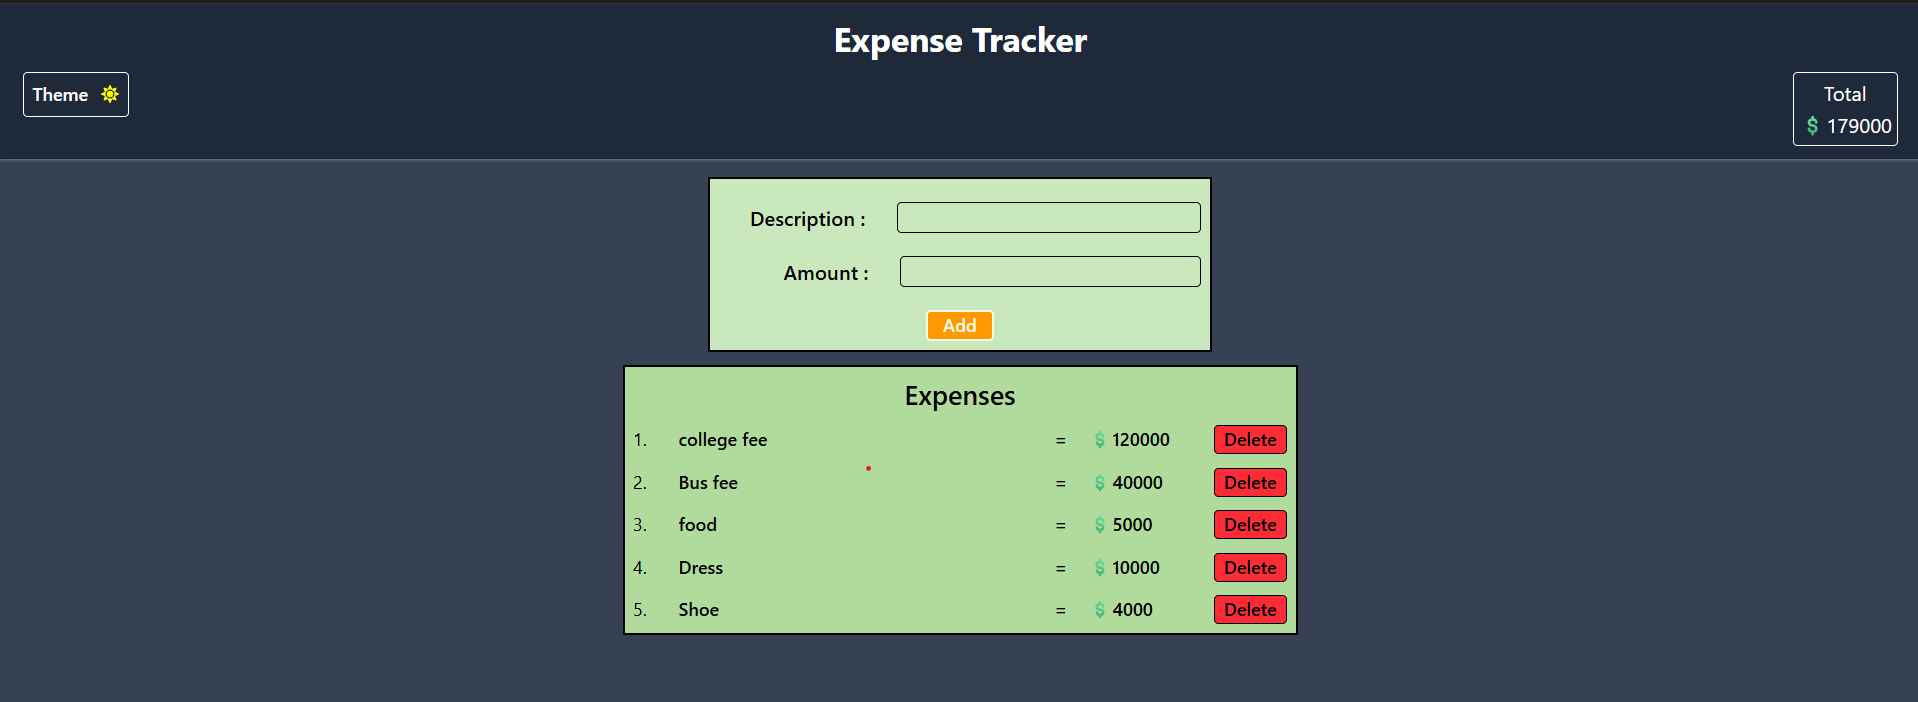
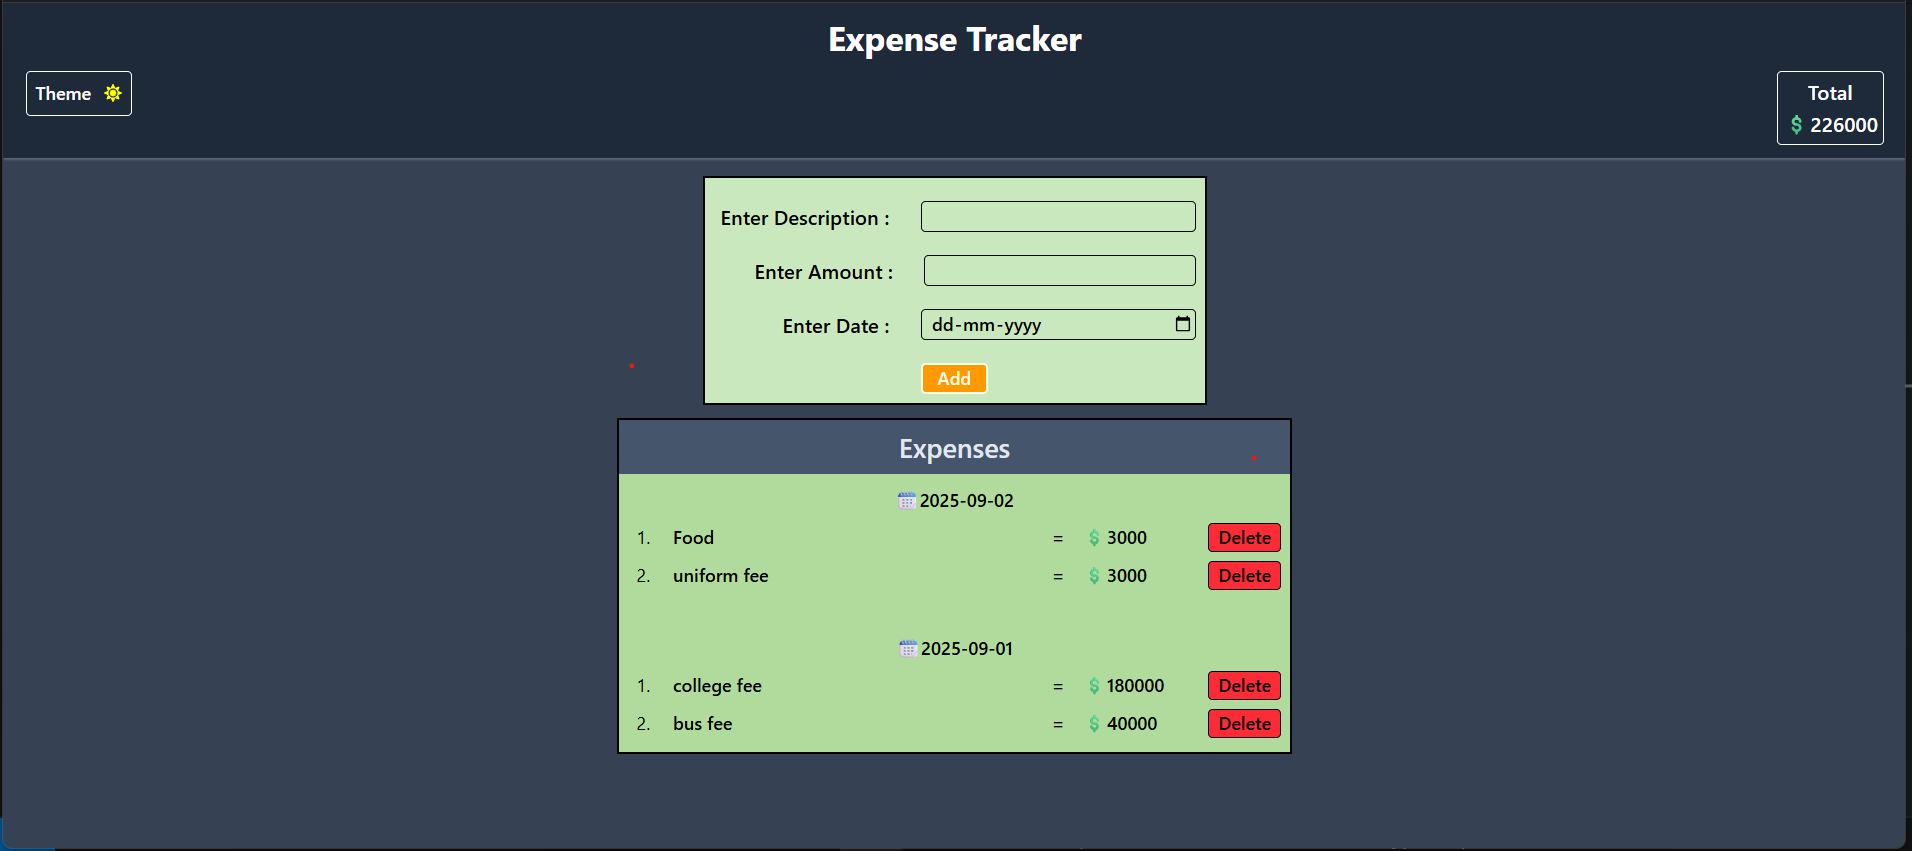
Added new date feature and sorted the expense list based on date

diff --git a/src/components/UserInput.tsx b/src/components/UserInput.tsx
@@ -7,22 +7,24 @@ export type ExpenseType = {
   id: number;
   description: string;
   amount: number;
+  date: string;
 };
 
 const UserInput = () => {
-  console.log("userInput renders");
   const [description, setDescription] = useState("");
   const [amount, setAmount] = useState("");
   const [expense, setExpense] = useState<ExpenseType[]>([]);
   const [balance, setBalance] = useState(0);
   const [isDark, setIsDark] = useState(true);
+  const [date, setDate] = useState("");
 
   useEffect(() => {
     const savedExpense = localStorage.getItem("expense");
     const savedBalance = localStorage.getItem("balance");
-
+    const savedTheme = localStorage.getItem("savedTheme");
     if (savedExpense) setExpense(JSON.parse(savedExpense));
     if (savedBalance) setBalance(JSON.parse(savedBalance));
+    if (savedTheme) setIsDark(JSON.parse(savedTheme));
   }, []);
 
   // Apply/remove the "dark" class on <html> whenever isDark changes
@@ -41,12 +43,19 @@ const UserInput = () => {
       id: Date.now(),
       description: description,
       amount: parseFloat(amount),
+      date,
     };
     const updatedExpense = [...expense, newExpense];
     setDescription("");
     setAmount("");
-    // setExpense(updatedExpense)
+    setDate("");
     updateExpenseData(updatedExpense);
+  };
+
+  const themeToggle = () => {
+    const newTheme = !isDark;
+    setIsDark(newTheme);
+    localStorage.setItem("savedTheme", JSON.stringify(newTheme));
   };
 
   const deleteExpense = useCallback(
@@ -76,13 +85,14 @@ const UserInput = () => {
        dark:bg-gray-800 dark:text-white p-3 w-full shadow shadow-gray-500 "
       >
         <div className=" text-center  w-full">
-          <h1 className="text-xl sm:text-3xl font-bold">Expense Tracker</h1>
+          <h1 className="text-xl sm:text-3xl font-bold ">Expense Tracker</h1>
         </div>
 
         <div className="flex w-full  justify-between mt-3 px-2  text-center">
           <button
-            onClick={() => setIsDark(!isDark)}
-            className="flex gap-3 items-center border rounded px-2 h-10 font-semibold"
+            onClick={themeToggle}
+            className="flex gap-3 items-center border rounded px-2 h-10 font-semibold
+            hover:outline-2"
           >
             Theme {isDark ? <FaSun color="yellow" /> : <FaMoon color="gray" />}
           </button>
@@ -96,33 +106,45 @@ const UserInput = () => {
          font-semibold sm:gap-2 border-2 p-2 min-w-0 bg-[#CAE8BD]"
         >
           <div className=" flex gap-2 flex-col sm:flex-row justify-between my-3">
-            <label className="text-xs sm:text-lg flex-1 sm:text-right sm:pr-5">
-              Description :{" "}
+            <label className="text-xs  sm:text-lg flex-2 sm:text-right sm:pr-5">
+              Enter Description :
             </label>
             <input
               type="text"
               value={description}
               onChange={(e) => setDescription(e.target.value)}
               required
-              className="border rounded flex-2 pl-2"
+              className="border rounded flex-3 pl-2"
             ></input>
           </div>
           <div className="flex flex-col gap-2 sm:flex-row  justify-between min-w-0 mb-3">
-            <label className="flex-1 sm:text-right sm:pr-5 text-xs sm:text-lg">
-              Amount :
+            <label className="flex-2 sm:text-right sm:pr-5 text-xs sm:text-lg">
+              Enter Amount :
             </label>
             <input
               type="number"
               value={amount}
               onChange={(e) => setAmount(e.target.value)}
               required
-              className="border rounded flex-2"
+              className="border rounded flex-3"
             ></input>
+          </div>
+          <div className="flex flex-col gap-2 sm:flex-row  justify-between min-w-0 mb-3">
+            <label className="flex-2 sm:text-right sm:pr-5 text-xs sm:text-lg">
+              Enter Date :
+            </label>
+            <input
+              type="date"
+              value={date}
+              onChange={(e) => setDate(e.target.value)}
+              required
+              className="border rounded flex-3 pl-2"
+            />
           </div>
           <button
             type="submit"
             className="border-2  rounded  bg-amber-500 text-amber-50
-             hover:bg-amber-500/80 w-15 mx-auto"
+             hover:outline-2 w-15 mx-auto"
           >
             Add
           </button>

diff --git a/src/components/ExpenseList.tsx b/src/components/ExpenseList.tsx
@@ -6,30 +6,66 @@ type ExpenseListProps = {
   deleteExpense: (id: number) => void;
 };
 
+type groupedExpenseType = Record<string, ExpenseType[]>;
+
 const ExpenseList = ({ expense, deleteExpense }: ExpenseListProps) => {
-  console.log("expense list renders");
+  const groupedExpense: groupedExpenseType = expense.reduce((acc, cur) => {
+    if (!acc[cur.date]) acc[cur.date] = [];
+    acc[cur.date].push(cur);
+    return acc;
+  }, {} as groupedExpenseType);
+
+  const sortedDates = Object.keys(groupedExpense).sort(
+    (a, b) => new Date(b).getTime() - new Date(a).getTime()
+  );
+
   return (
     <div className="border-2 mt-3 sm:w-150 mx-3 sm:mx-auto bg-[#B0DB9C]">
-      <h2 className="sm:text-2xl font-semibold mt-2 mb-3 text-center">
+      <h2
+        className="sm:text-2xl font-semibold  mb-3 
+      text-center text-black p-2 dark:bg-slate-600 dark:text-slate-200"
+      >
         Expenses
       </h2>
-      <ol className="list-decimal pl-6 space-y-3">
-        {expense.map((expense: ExpenseType) => (
-          <li className="list  pl-6 " key={expense.id}>
-            <div className="flex items-center justify-between gap-4 mb-2 font-semibold">
-              <span className="flex-1 break-all">{expense.description}</span>
-              <span className="w-4 text-center">=</span>
-              <span className=" w-24 text-left">💲{expense.amount}</span>
-              <button
-                onClick={() => deleteExpense(expense.id)}
-                className="border rounded mr-2 px-2 bg-red-500 hover:bg-red-500/80"
-              >
-                Delete
-              </button>
+      {expense.length === 0 ? (
+        <div className="text-center my-2 text-lg font-semibold text-red-400">
+          No Expense Yet!{" "}
+        </div>
+      ) : (
+        <div className=" space-y-10 my-3 ">
+          {sortedDates.map((date) => (
+            <div key={date}>
+              <h3 className="font-semibold text-center mb-2">🗓{date}</h3>
+              <ol className="list-decimal pl-8 space-y-2">
+                {groupedExpense[date].map((exp) => (
+                  <li key={exp.id}>
+                    <div className="flex items-center justify-between gap-4 font-semibold">
+                      <span className="flex-1 break-all ml-4">
+                        {exp.description}
+                      </span>
+                      <span>=</span>
+                      <span className=" w-24 text-left">💲{exp.amount}</span>
+                      <button
+                        onClick={() => {
+                          if (
+                            confirm(
+                              "Are you sure you want to delete this expense?"
+                            )
+                          )
+                            deleteExpense(exp.id);
+                        }}
+                        className="border rounded mr-2 px-2 bg-red-500 hover:outline-2"
+                      >
+                        Delete
+                      </button>
+                    </div>
+                  </li>
+                ))}
+              </ol>
             </div>
-          </li>
-        ))}
-      </ol>
+          ))}
+        </div>
+      )}
     </div>
   );
 };

diff --git a/src/components/BalanceBox.tsx b/src/components/BalanceBox.tsx
@@ -6,7 +6,10 @@ type BalanceBoxProps = {
 
 const BalanceBox = ({ balance }: BalanceBoxProps) => {
   return (
-    <div className="text-xs sm:text-lg text-center ml-autofont-semibold border p-1 rounded ">
+    <div
+      className="text-xs sm:text-lg text-center ml-auto font-semibold 
+    border p-1 rounded hover:outline-2"
+    >
       <p>Total </p>
       <p> 💲{balance}</p>
     </div>

diff --git a/README.md b/README.md
@@ -1,67 +1,72 @@
-# Expense Tracker
+# 💰 Expense Tracker
 
-A simple and responsive **Expense Tracker** built with **React**, **TypeScript**, and **Tailwind CSS**.  
-Supports **dark/light mode toggle** and stores expenses in the browser's **local storage**.
+A simple and responsive expense tracking app built with **React + TypeScript + Tailwind CSS**.  
+It allows users to add, view, and delete expenses grouped by date.
 
-## Features
+## 🚀 Features
 
-- Add and delete expenses with description and amount
-- Automatically calculates **total balance**
-- Responsive layout for **mobile and desktop**
-- **Dark/Light mode toggle** with sun/moon icons
-- Data persisted in **localStorage** (optional)
+- ➕ Add expenses with description, amount, and date
+- 📅 Expenses are automatically grouped by date
+- 🔢 Expenses are displayed in a numbered list
+- 🗑 Delete an expense with a confirmation dialog
+- 🌙 Dark mode support
+- 💾 Data is stored in **localStorage**, so your expenses persist even after refresh
 
-## Demo
+## 🖼 Preview
 
-![Demo Screenshot](./src/assets/screenshot.png)
+![App Screenshot](./src/assets/screenshot.png)
 
-## Technologies Used
+## 🛠 Tech Stack
 
-- **React** with Functional Components and Hooks (`useState`, `useEffect`, `useCallback`)
-- **TypeScript** for type safety
-- **Tailwind CSS** for styling
-- **React Icons** for theme toggle icons
-- **localStorage** for persistence
+- ⚛ **React** (with TypeScript)
+- 🎨 **Tailwind CSS** for styling
+- 💽 **LocalStorage** for persistence
 
-## Installation
+## 📂 Project Structure
 
-1. Clone the repository:
-   git clone https://github.com/<your-username>/expense-tracker.git
-   cd expense-tracker
+src/
+├── components/
+│ ├── UserInput.tsx # Form to add new expenses
+│ ├── ExpenseList.tsx # List of expenses grouped by date
+│
+├── App.tsx # Main app logic
+├── index.tsx # Entry point
 
-Install dependencies:
+## ⚡ Installation & Setup
+
+Clone the repo and install dependencies:
+
+git clone https://github.com/your-username/expense-tracker.git
+cd expense-tracker
 npm install
 npm install react-icons
 
 Run the development server:
 npm run dev
-Open http://localhost:5173 in your browser.
 
-Usage :
-Enter a description and amount in the form.
-Click Add to save the expense.
-Click Delete to remove an expense.
-Toggle Theme (sun/moon) to switch between dark and light mode.
-Total balance is automatically calculated and displayed.
+Build for production:
 
-Tailwind Dark Mode
-Dark mode is manually toggled using the Theme button.
-Tailwind is configured with darkMode: 'class' in tailwind.config.js.
-The toggle adds/removes the dark class from <html> dynamically.
+npm run build
+🎯 Usage
 
-Customization
-Colors, spacing, and responsive breakpoints can be modified in tailwind.config.js.
-You can replace emoji icons with any icons from react-icons library.
+Enter a description, amount, and select a date.
 
-Contributing
-Fork the repository.
-Create a new branch: git checkout -b feature-name.
-Commit your changes: git commit -m "Add feature".
-Push to branch: git push origin feature-name.
-Open a pull request.
+Your expense will be added under the chosen date.
 
-License
-This project is MIT licensed.
+To delete an expense, click Delete → confirm deletion.
 
-Author
-Hafeez Mohammad
+📌 Roadmap / Future Improvements
+✨ Add edit functionality for expenses
+
+📊 Show total spent per day / per month
+
+📈 Graph view of expenses
+
+☁ Sync with backend / database
+
+🤝 Contributing
+Contributions, issues, and feature requests are welcome!
+Feel free to fork this repo and submit a PR.
+
+📜 License
+This project is licensed under the MIT License.
